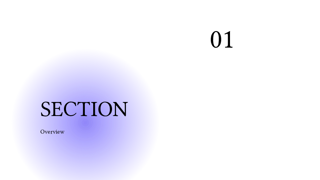
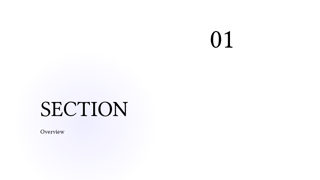
fix(template): quiet modern title and section artwork

Changed region(s): [[0.0625, 0.3611, 0.4688, 1.0]]

diff --git a/internal/generator/modern_quiet_artwork_test.go b/internal/generator/modern_quiet_artwork_test.go
@@ -1,0 +1,76 @@
+package generator
+
+import (
+	"context"
+	"encoding/xml"
+	"path/filepath"
+	"strings"
+	"testing"
+)
+
+func TestModernTitleSectionQuietArtwork(t *testing.T) {
+	const source = "../../templates/modern-template.pptx"
+	check := func(t *testing.T, path, part string) {
+		t.Helper()
+		var layout struct {
+			Pictures []struct {
+				Blip struct {
+					Embed   string `xml:"embed,attr"`
+					Opacity []struct {
+						Amount int `xml:"amt,attr"`
+					} `xml:"alphaModFix"`
+				} `xml:"blipFill>blip"`
+			} `xml:"cSld>spTree>pic"`
+		}
+		if err := xml.Unmarshal([]byte(readZipFileString(t, path, part)), &layout); err != nil {
+			t.Fatal(err)
+		}
+		found := 0
+		for _, picture := range layout.Pictures {
+			if picture.Blip.Embed != "rId2" {
+				continue
+			}
+			found++
+			if len(picture.Blip.Opacity) != 1 || picture.Blip.Opacity[0].Amount != 15000 {
+				t.Errorf("%s: native artwork does not use selected 15%% opacity", part)
+			}
+		}
+		if found != 1 {
+			t.Errorf("%s: found %d native rId2 artwork pictures, want one", part, found)
+		}
+	}
+	for _, layout := range []string{"slideLayout1", "slideLayout2"} {
+		part := "ppt/slideLayouts/" + layout + ".xml"
+		check(t, source, part)
+		for _, title := range []string{"Service performance", "Quarterly operating review and service delivery priorities"} {
+			t.Run(layout+"/"+title, func(t *testing.T) {
+				output := filepath.Join(t.TempDir(), "quiet-art.pptx")
+				secondary := "body"
+				if layout == "slideLayout1" {
+					secondary = "subtitle"
+				}
+				content := []ContentItem{
+					{PlaceholderID: "title", Type: ContentText, Value: title},
+					{PlaceholderID: secondary, Type: ContentText, Value: "Delivery overview"},
+				}
+				if layout == "slideLayout2" {
+					content = append(content, ContentItem{PlaceholderID: "Section Number", Type: ContentText, Value: "07"})
+				}
+				_, _, err := generateSinglePass(context.Background(), GenerationRequest{
+					TemplatePath: source, OutputPath: output, ExcludeTemplateSlides: true,
+					Slides: []SlideSpec{{LayoutID: layout, Content: content}},
+				})
+				if err != nil {
+					t.Fatal(err)
+				}
+				check(t, output, part)
+				slide := readZipFileString(t, output, "ppt/slides/slide1.xml")
+				for _, item := range content {
+					if !strings.Contains(slide, item.Value.(string)) {
+						t.Errorf("wording lost: %v", item.Value)
+					}
+				}
+			})
+		}
+	}
+}
